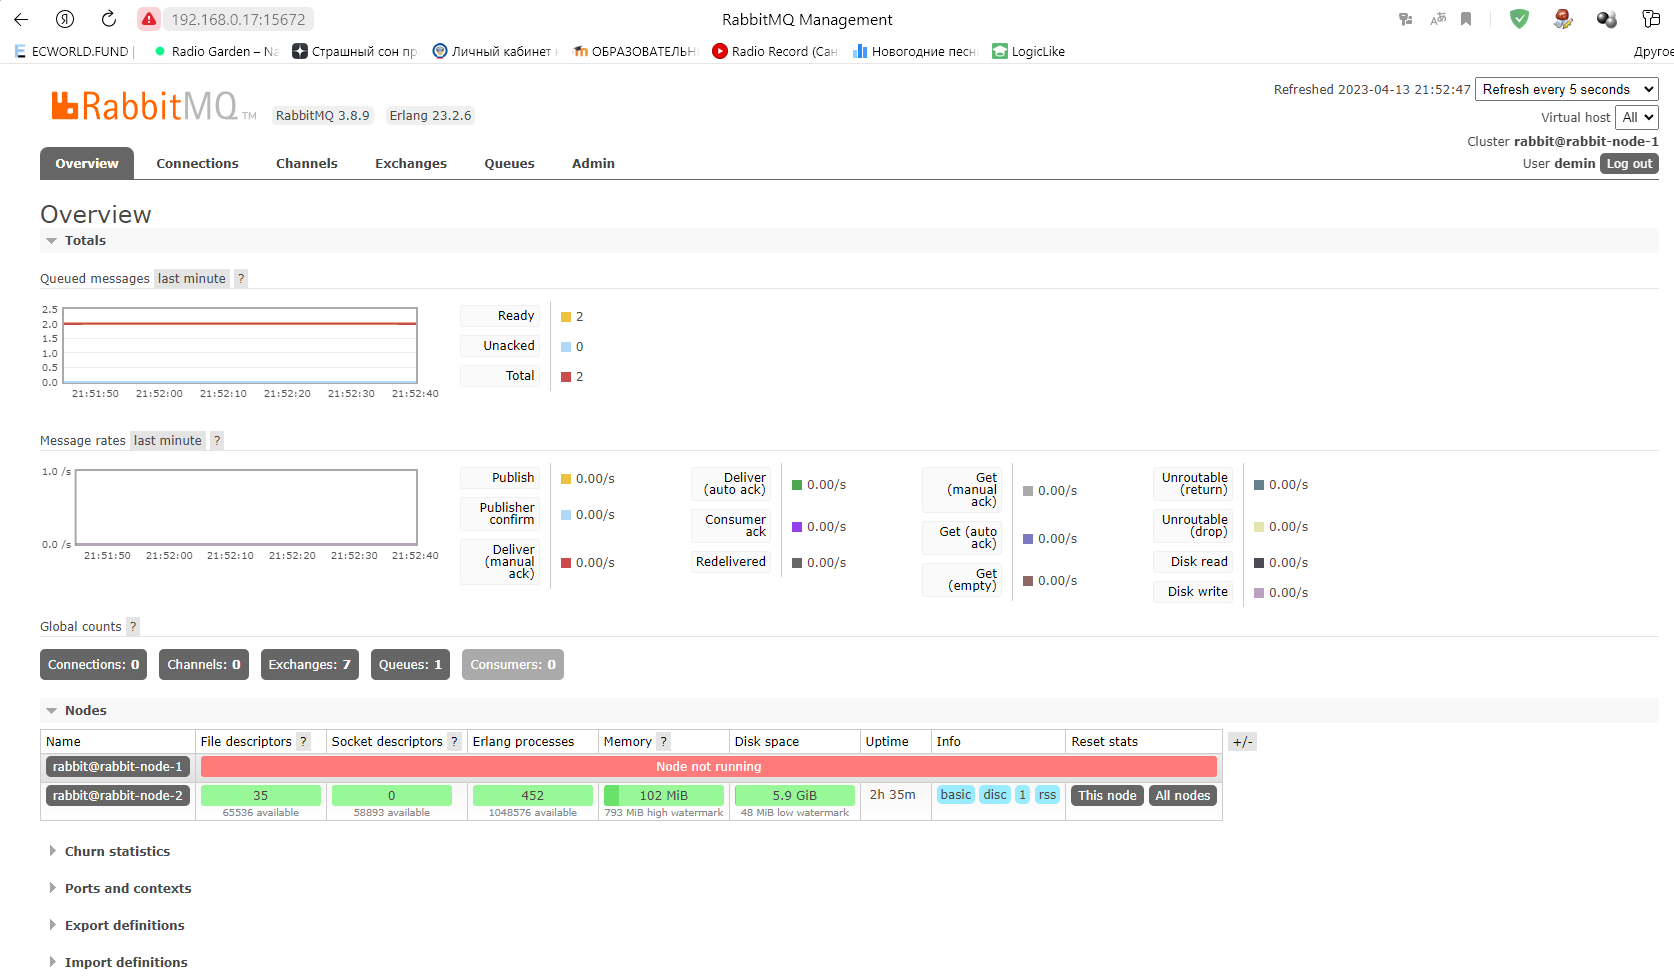
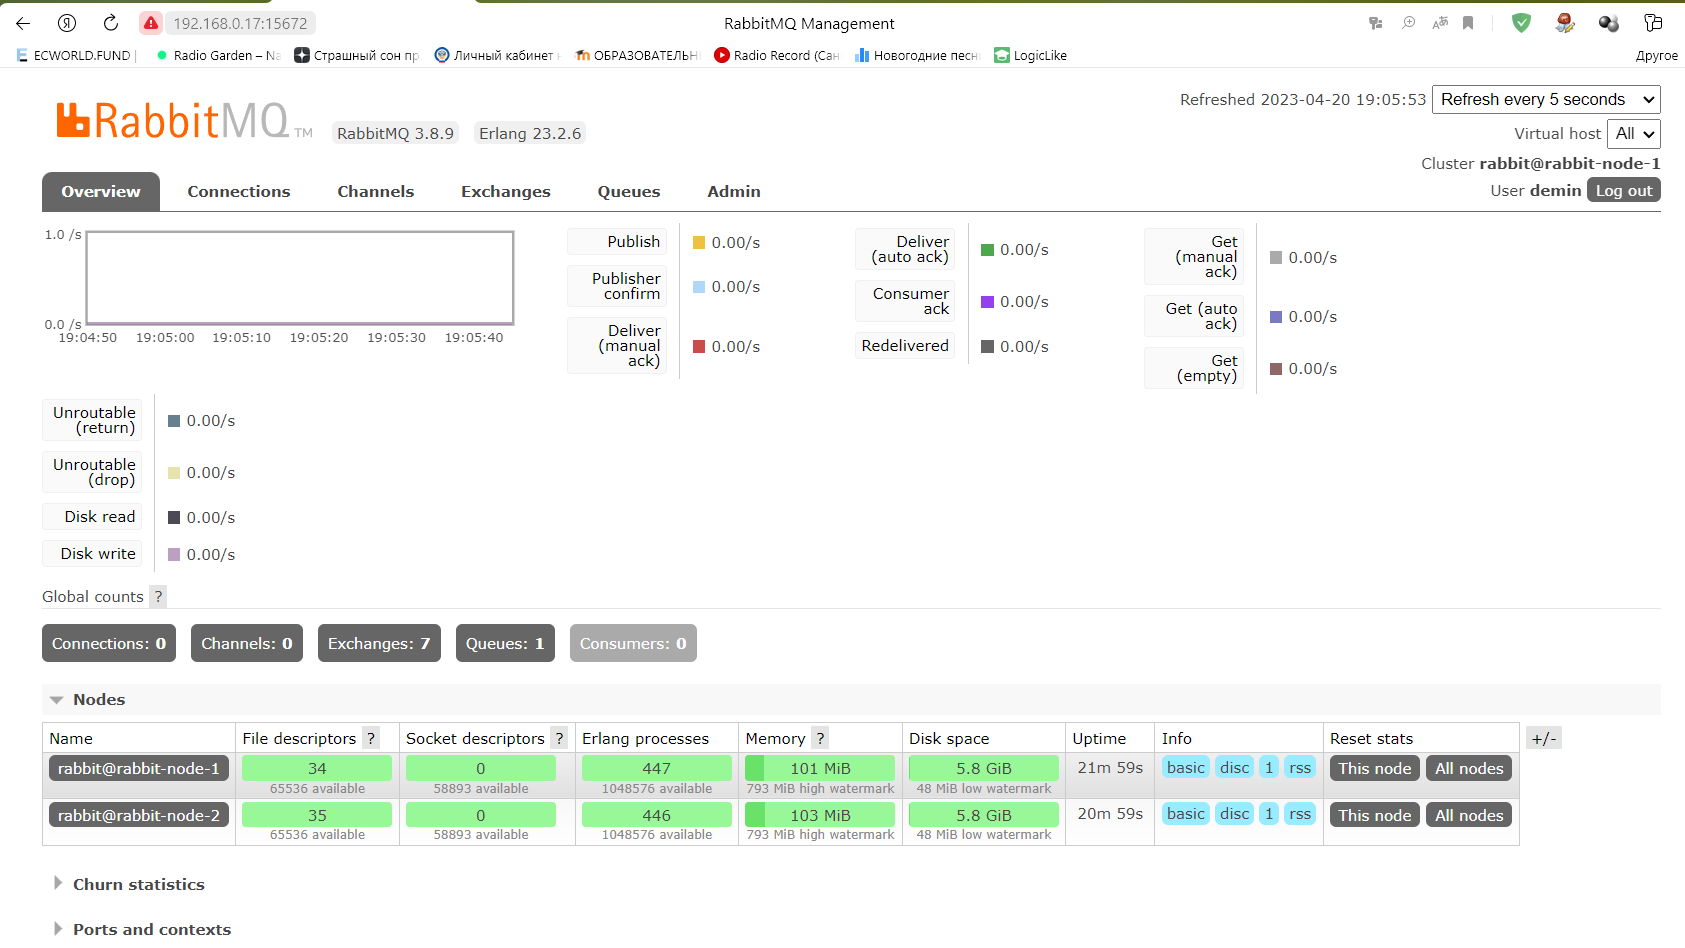
added screenshots for cases 1-3

diff --git a/README.md b/README.md
@@ -50,6 +50,7 @@ pip install pika
 Добавьте в файл hosts название и IP-адрес каждой машины, чтобы машины могли видеть друг друга по имени.
 
 Пример содержимого hosts файла:
+
 ```shell script
 cat /etc/hosts
 192.168.0.10 rmq01
@@ -80,6 +81,7 @@ rabbitmqadmin get queue='hello'
 <ins>Ответ</ins>:
 
 Вторая машина создана путем клонирования в VirtualBox c уже установленным  rabbitmq. На VM1 и VM2 для смены имени хоста выполняем команду:
+
 ```
 hostnamectl set-hostname rabbit-node-1
 ```
@@ -93,6 +95,7 @@ hostnamectl set-hostname rabbit-node-2
 ![](img/3-2.png)
 
 Далее на VM2 перезагружаем сервер rabbitmq и останавливаем службу для подключения к кластеру на базе VM1:
+
 ```
 systemctl restart rabbitmq-server
 ```
@@ -141,9 +144,23 @@ rabbitmqadmin get queue='hello'
 
 на ноде 1:
 
+![](img/3-11.png)
+
 на ноде 2:
 
+![](img/3-12.png)
+
+Состояние нод кластера:
+
+![](img/3-13.png)
+
 Отключение первой ноды  и выполнение скрипта consumer.py на вторую ноду:
+
+![](img/3-14.png)
+
+Состояние нод кластера:
+
+![](img/3-16.png)
 
 Содержание скрипта consumer.py :
 
@@ -164,6 +181,8 @@ def callback(ch, method, properties, body):
 channel.basic_consume (queue='hello', on_message_callback=callback, auto_ack=True)
 channel.start_consuming()
 ```
+![](img/3-15.png)
+
 
 ## Дополнительные задания (со звёздочкой*)
 Эти задания дополнительные, то есть не обязательные к выполнению, и никак не повлияют на получение вами зачёта по этому домашнему заданию. Вы можете их выполнить, если хотите глубже шире разобраться в материале.
